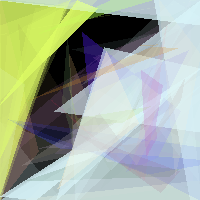
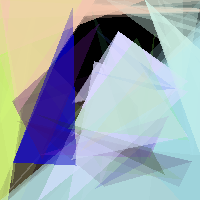
changing mutate rate, polygon replacement

diff --git a/evoart.py b/evoart.py
@@ -23,9 +23,9 @@ from PIL import Image,ImageDraw
 from evol import Population,Evolution
 
 SIDES = 3
-POLYGON_COUNT = 100
+POLYGON_COUNT = 200
 INIT_SIGMA = 120
-DECAY_RATE = 0.1
+DECAY_RATE = 0.05
 CURRENT_GEN = 0
 
 # 796 sigma 10 decay 0.1 100 poly
@@ -59,13 +59,20 @@ def make_polygon(SIDES):
 def initialise():
     return [make_polygon(SIDES) for i in range(POLYGON_COUNT)]
 
+def improving(population):
+    return population[0].fitness > population[1].fitness
 
 def evolve(population,args,cxp=0.5,mutp=0.5):
     population.survive(fraction=0.5)
     population.breed(parent_picker=select,combiner=combine)
-    population.mutate(mutate_function=mutate,rate=0.7)
+    if improving(population):
+        mutation_rate = 0.3
 
-    # CHANGE MUTATE rate depending on fitness being up or down
+    else:
+        mutation_rate = 0.7
+    population.mutate(mutate_function=mutate,rate=mutation_rate)
+
+
     return population
 
 
@@ -102,7 +109,7 @@ def updated_std_dev(init_std_dev,generation,total_generations):
 
 
 def mutate(solution,rate):
-    global INIT_SIGMA,DECAY_RATE,CURRENT_GEN
+    global INIT_SIGMA,DECAY_RATE,CURRENT_GEN, SIDES
     solution = list(solution)
     add_vertex = 0.000001
     current_sigma = INIT_SIGMA / math.log(CURRENT_GEN + 3,3)
@@ -112,7 +119,13 @@ def mutate(solution,rate):
         SIDES = random.choice([3,4,5,6])
         solution.append(make_polygon(SIDES))
         return solution
+
     # generate new polys
+    if random.random() < 0.1:
+        # Replace a random polygon with a new random shape
+        index_to_replace = random.randrange(len(solution))
+        solution[index_to_replace] = make_polygon(SIDES)
+        return solution
 
     # for i in range(len(solution)):
     #     if random.random() < add_vertex:
@@ -142,7 +155,7 @@ def mutate(solution,rate):
         polygon[1:] = list(zip(colors[::2],colors[1::2]))
         solution[i] = polygon
 
-    if random.random() < 0.3:
+    if random.random() < 0.1:
         i = random.randrange(len(solution))
         polygon = list(solution[i])
         alpha = polygon[0][3] + random.normalvariate(0,current_sigma) if random.random() > rate else polygon[0][3]
@@ -155,6 +168,8 @@ def mutate(solution,rate):
         random.shuffle(solution)
 
     return solution
+
+
 
 
 def draw(solution):
